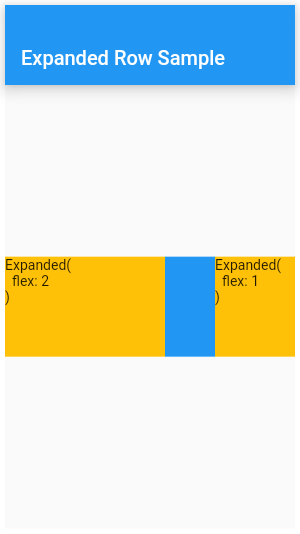
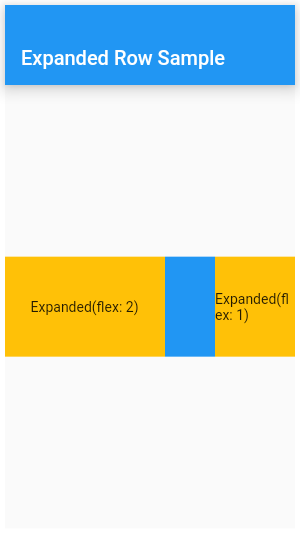
Remove newlines from Expanded sample

diff --git a/packages/diagrams/lib/src/expanded.dart b/packages/diagrams/lib/src/expanded.dart
@@ -67,7 +67,7 @@ class ExpandedDiagram extends StatelessWidget implements DiagramMetadata {
                   child: Container(
                     color: Colors.amber,
                     height: 100,
-                    child: const Text('Expanded(\n  flex: 2\n)'),
+                    child: const Center(child: Text('Expanded(flex: 2)')),
                   ),
                 ),
                 Container(
@@ -80,7 +80,7 @@ class ExpandedDiagram extends StatelessWidget implements DiagramMetadata {
                   child: Container(
                     color: Colors.amber,
                     height: 100,
-                    child: const Text('Expanded(\n  flex: 1\n)'),
+                    child: const Center(child: Text('Expanded(flex: 1)')),
                   ),
                 ),
               ],
